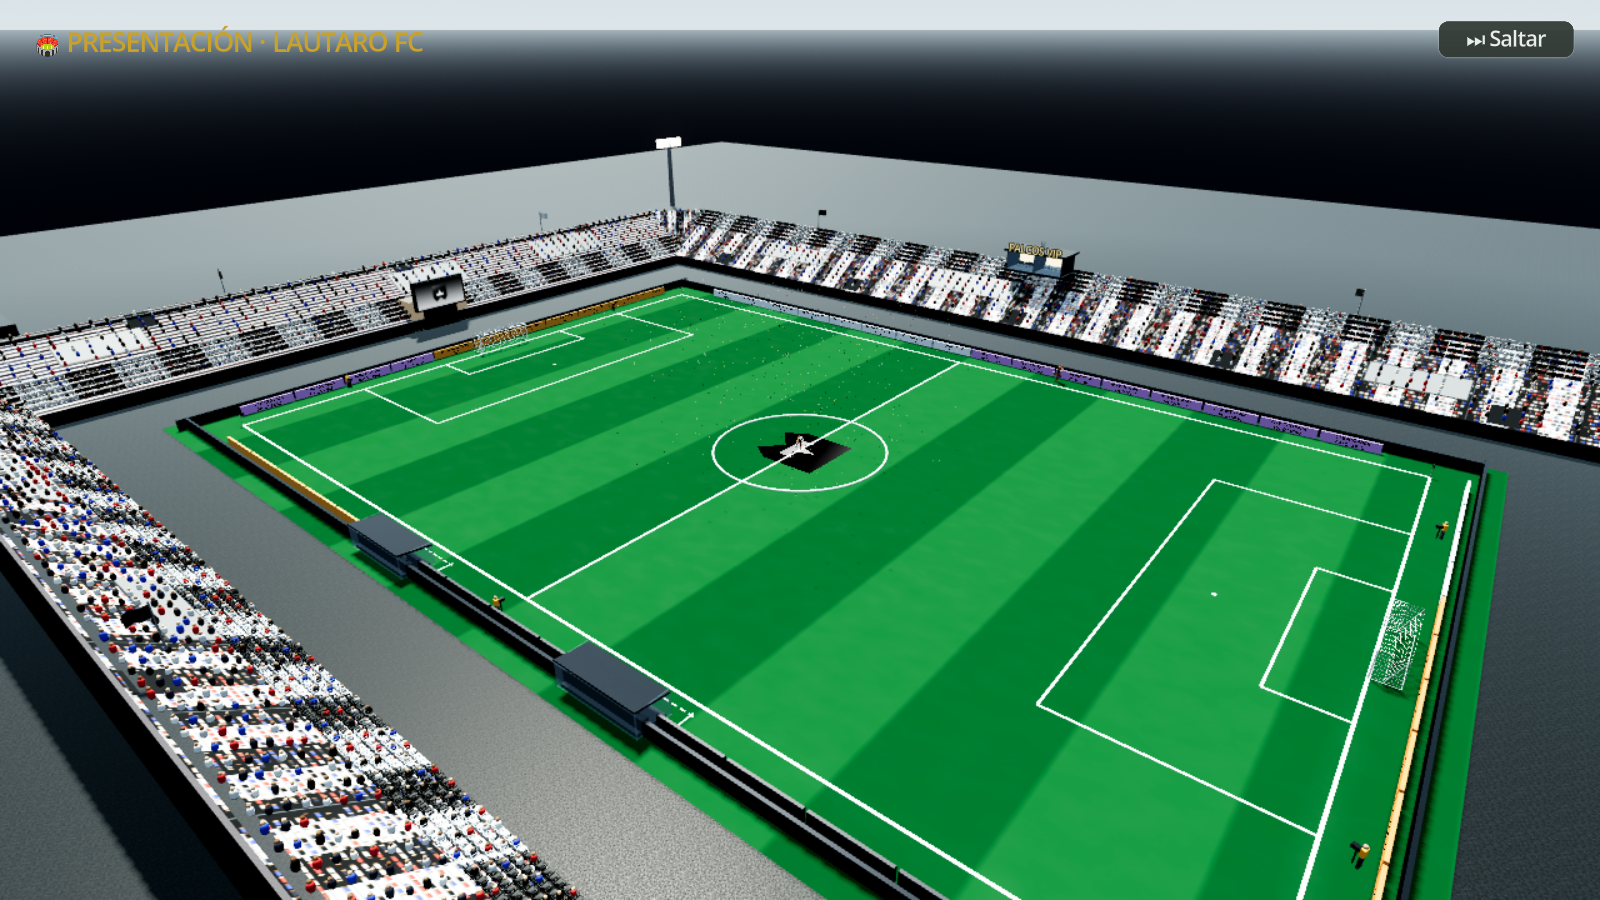
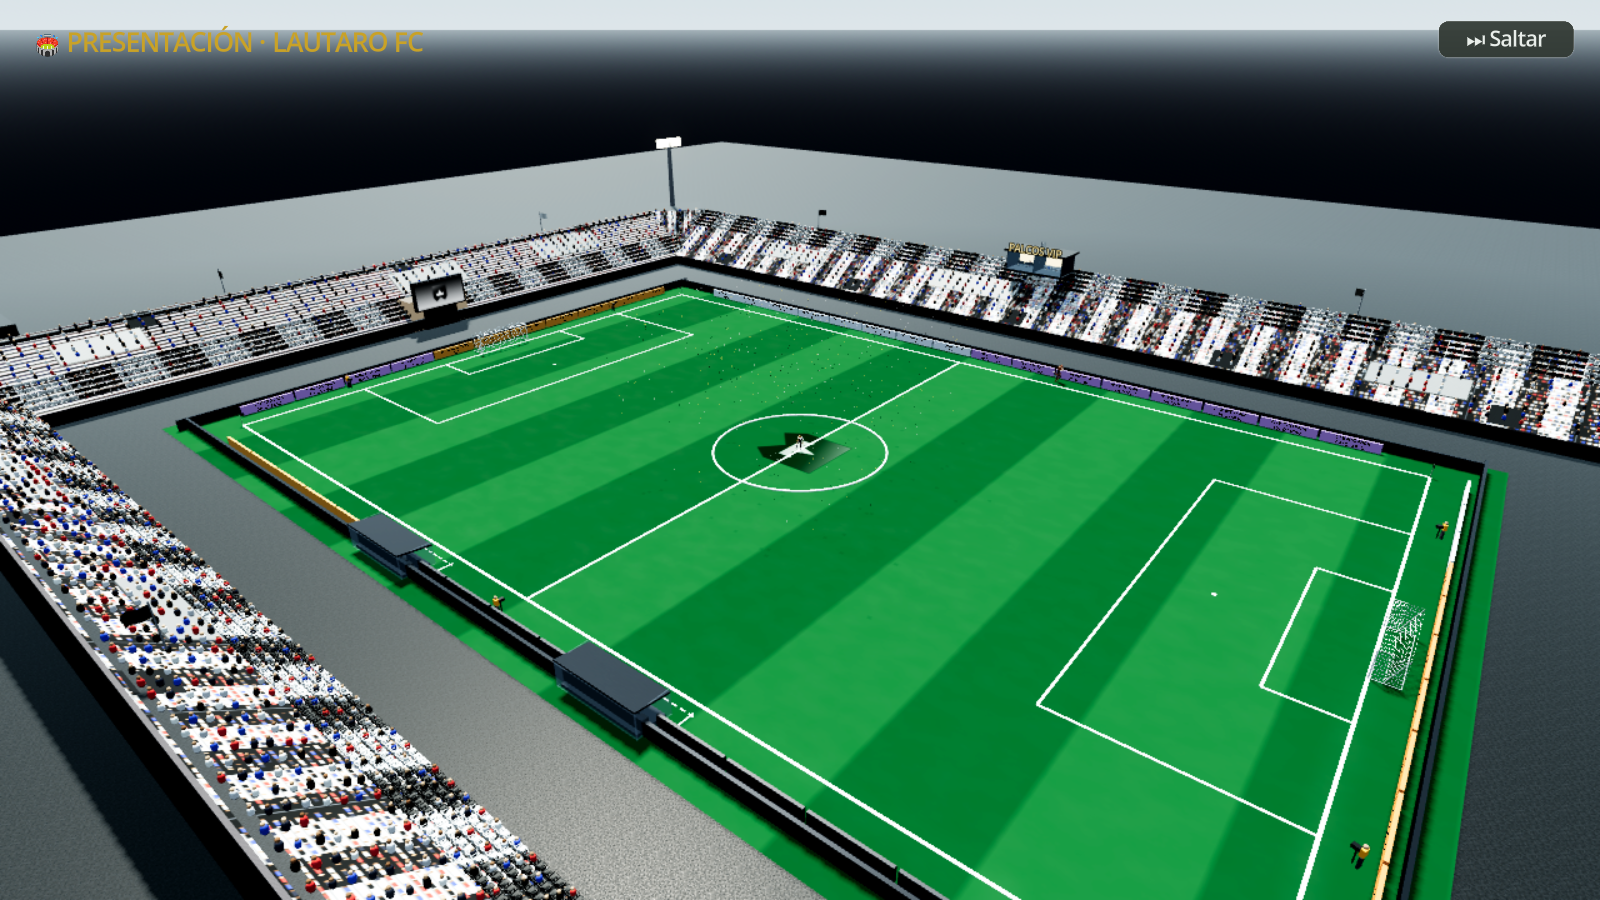
Celebraciones según el carácter, golpeo con cuerpo y escudo del círculo central como pintura
- Cada rasgo tiene su repertorio de celebraciones y cada jugador la suya,
  que repite casi siempre (sale en su ficha); de visita, el polémico y el
  killer provocan a la grada rival.
- Los tiros artesanales: la cadera avanza, la pelvis se abre y se cierra,
  el brazo contrario equilibra, el apoyo se flexiona y acaba en puntillas.
- El escudo de la cancha: 1024 px con mipmaps, con luz y translúcido.

Claude-Session: https://claude.ai/code/session_019vFD1r5h8o4qeHRJxKM5d9

diff --git a/dinastia-godot/MAPA_DE_METAS.md b/dinastia-godot/MAPA_DE_METAS.md
@@ -105,13 +105,13 @@ Junta tres fuentes:
 | 11 | Meta: cromos, museo global, mundo heredado (bloque 50) | Plan maestro, informe (logros) | ✅ |
 | 12 | Colores del estadio por sección: cada bandeja, redes, focos, LED | Pedido de la semana pasada | ✅ |
 | 13 | Presentación de fichajes como cinemática | Plan B3 | ✅ tu estadio real (el diseñado), tu camiseta con su dorsal, dominadas o saludo, confeti y rótulo |
-| 14 | Celebraciones de gol según el carácter del jugador | Informe | ⬜ |
+| 14 | Celebraciones de gol según el carácter del jugador | Informe | ✅ repertorio por rasgo, celebración propia de cada jugador (en su ficha) y provocación de visita |
 | 15 | Dividir `principal.gd` (15.189 líneas) en componentes | Informe | ⬜ |
-| 16 | Patada que luce como golpeo de balón | Informe, fallo 11 | ⬜ |
+| 16 | Patada que luce como golpeo de balón | Informe, fallo 11 | ✅ los 20 tiros artesanales con carrera, cadera, brazo de equilibrio, apoyo flexionado y puntillas (`pruebas/golpeo_hoja.png`) |
 | 17 | Traducción al inglés y portugués | Informe (ventas) | ⬜ |
 | 18 | Carrera de Jugador | Modos | ⬜ |
 | 19 | Balón mejor y con más variantes: modelos por competición y marca ficticia, texturas de paneles, desgaste, balón de invierno (naranja/amarillo) y elegir el del club | Pedido del usuario (29-9) | ⬜ |
-| 20 | El escudo pintado en el círculo central se ve tosco de cerca: suavizarlo o vectorizarlo | Visto en la cinemática de fichajes | ⬜ |
+| 20 | El escudo pintado en el círculo central se ve tosco de cerca: suavizarlo o vectorizarlo | Visto en la cinemática de fichajes | ✅ 1024 px con mipmaps, recibe luz y sombra, pintura translúcida |
 | 21 | Objetivos siempre a la vista en el borde derecho (directiva, confianza, próximo partido, misiones del mentor) | Pedido del usuario (29-9) | ✅ |
 | 22 | Las butacas de los rivales con los colores de su club (salían todas verdes) | Visto en la cinemática | ✅ |
 | — | Túnel navegable | Pedido para cuando exista "caminar por el estadio" | En espera |
